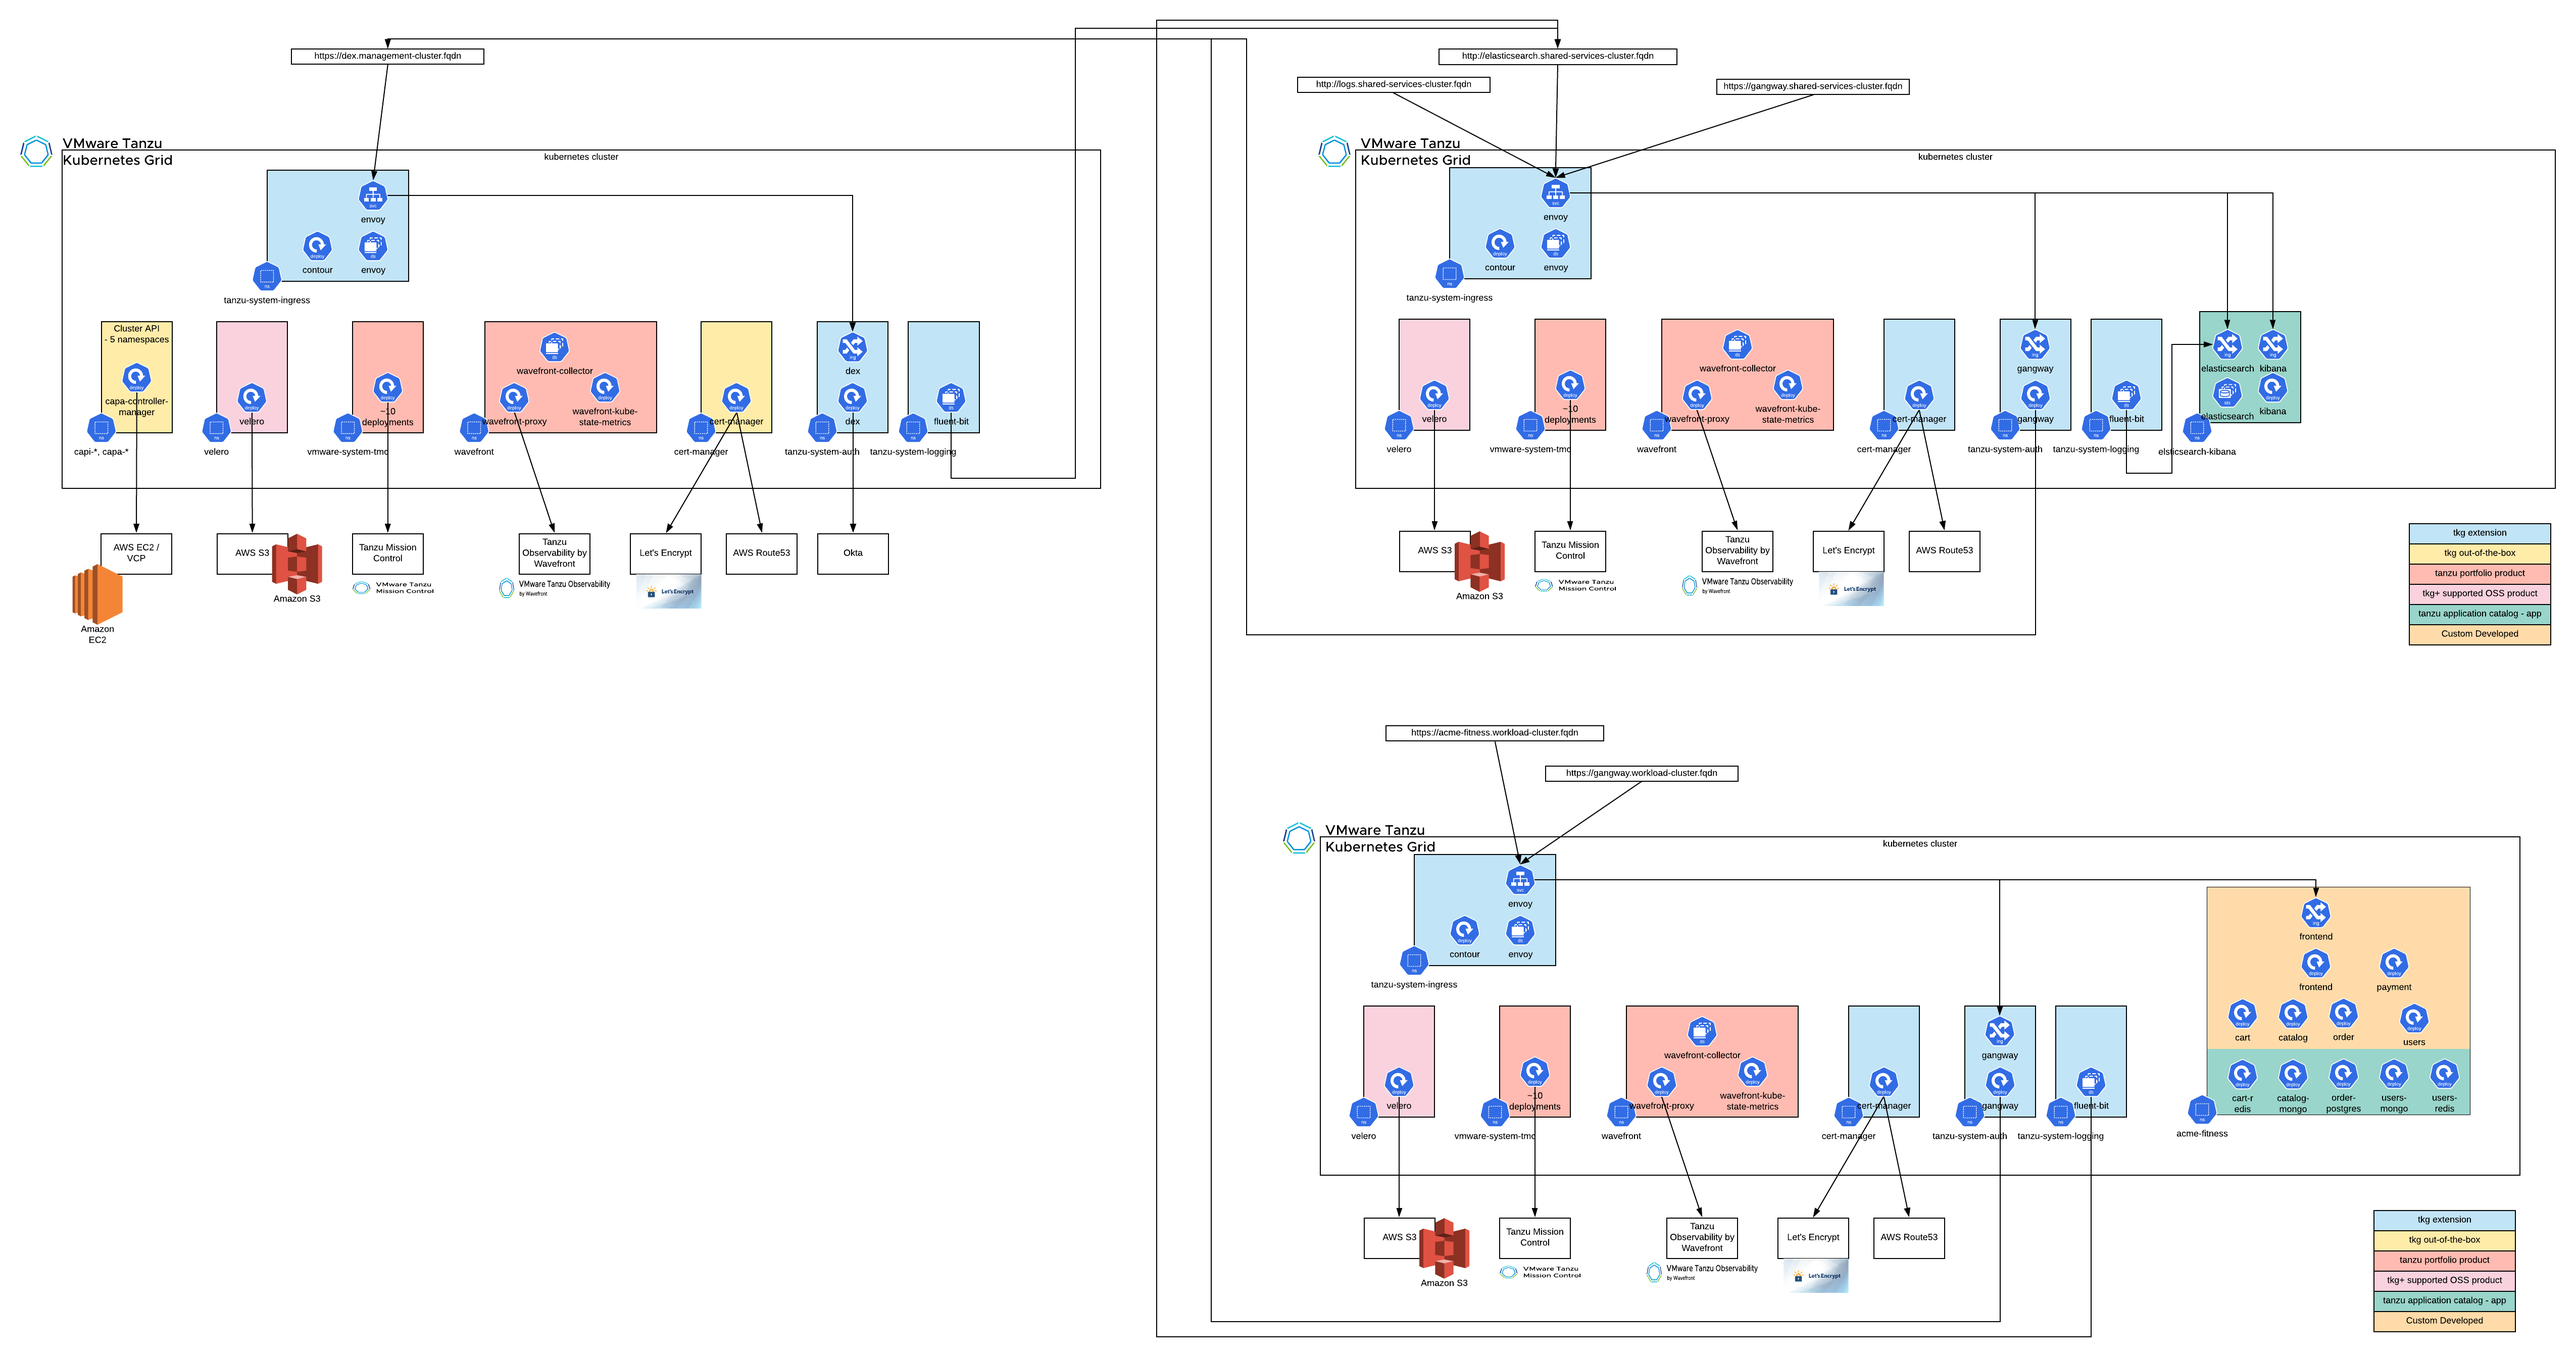
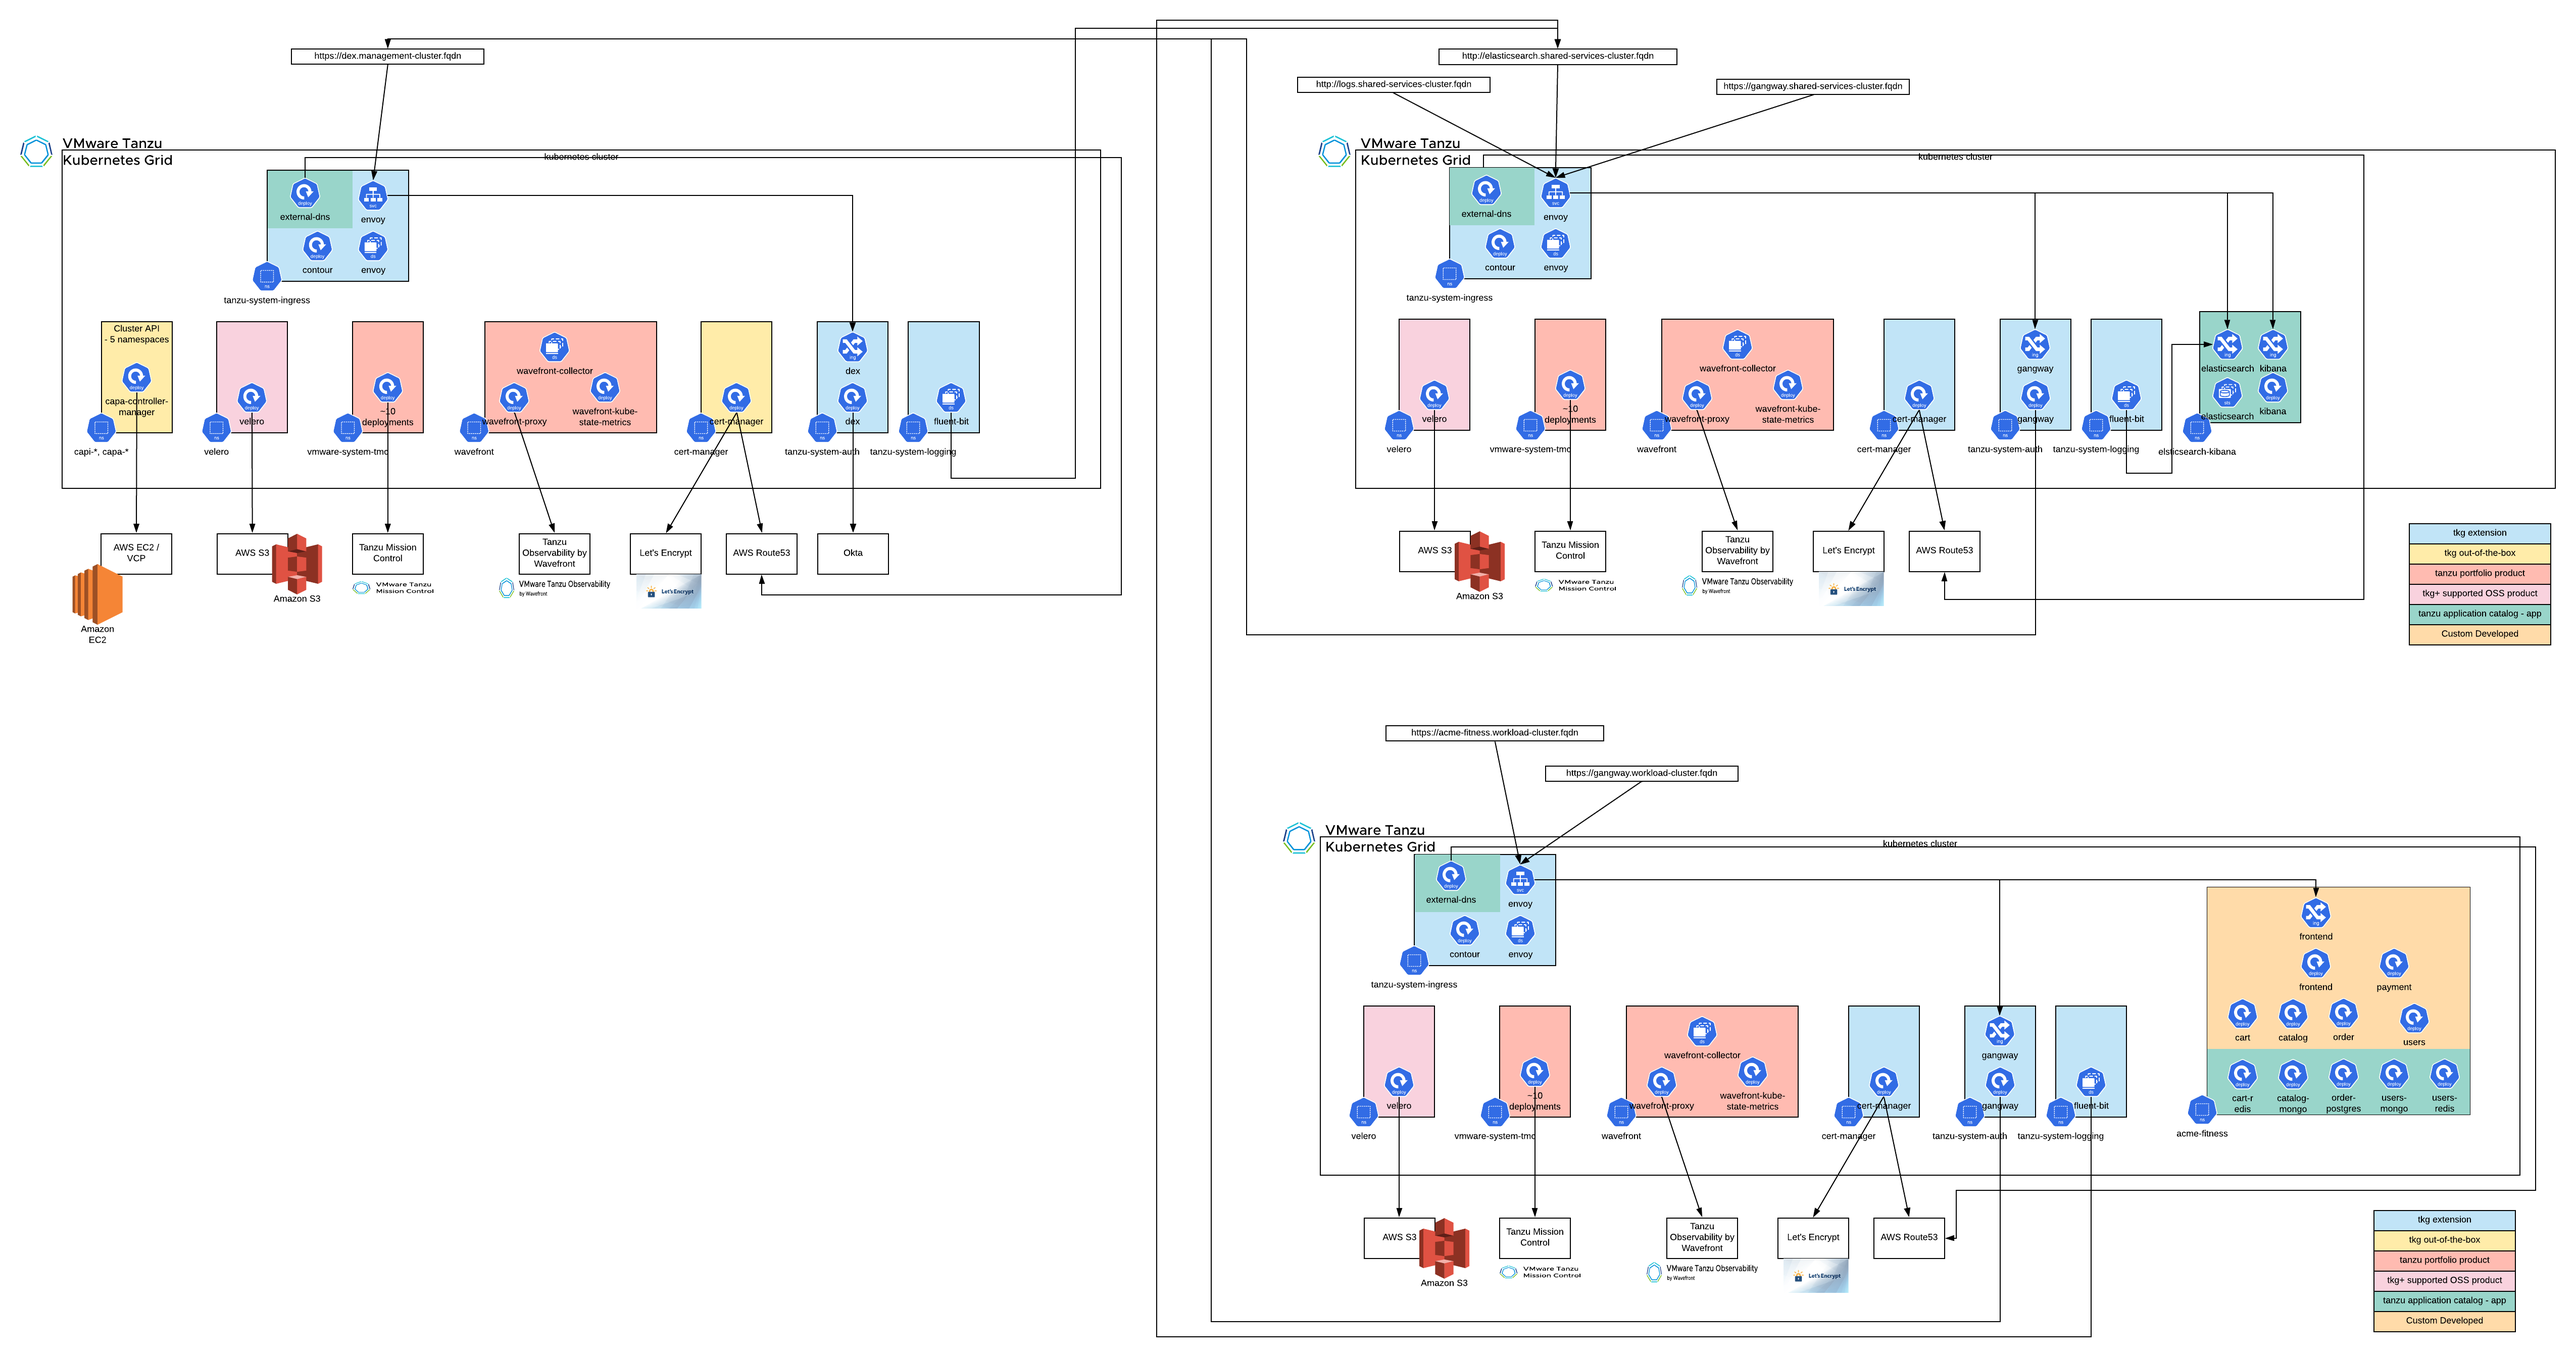
Adds external-dns, updates aws to use single vpc, introduces kapp and ytt

Changed region(s): [[0.53, 0.6178, 0.5924, 0.6796], [0.0935, 0.1236, 0.1559, 0.1853], [0.5612, 0.1236, 0.6235, 0.1853]]

diff --git a/docs/mgmt-cluster/06_contour_mgmt.md b/docs/mgmt-cluster/06_contour_mgmt.md
@@ -13,14 +13,14 @@ Run the script passing the range as parameters. Example:
 
 ## Deploy Contour
 
-Apply Contour configuration. We will use AWS one for any environment (including vSphere) since the only difference is the service type=LoadBalancer for Envoy which we need.  Use the script to update the contour configmap to enable `leaderelection` and apply yamls.
+Apply Contour configuration. We will use AWS one for any environment (including vSphere) since the only difference is the service type=LoadBalancer for Envoy which we need.  Use this script to apply yamls.
 ```bash
 ./scripts/generate-and-apply-contour-yaml.sh $(yq r $PARAMS_YAML management-cluster.name)
 ```
 
 ## Verify Contour
 
-Once it is deployed, wait until you can see all pods `Running` and the the Load Balancer up.  
+Once it is deployed, you can see all pods `Running` and the the Load Balancer up.  
 
 ```bash
 kubectl get pod,svc -n tanzu-system-ingress
@@ -34,12 +34,25 @@ The EXTERNAL IP for AWS will be set to the name of the newly configured AWS Elas
 aws elb describe-load-balancers
 ```
 
-## Setup Route 53 DNS for Contour Ingress
+## Setup Route 53 DNS for Wildcard Domain Contour Ingress
 
-Need to get the load balancer external IP for the envoy service and update AWS Route 53.  Execute the script below to do it automatically.
+We will leverage [external-dns](https://github.com/kubernetes-sigs/external-dns) for kubernetes managed DNS updates using the [helm chart from Bitnami catalog](https://bitnami.com/stack/external-dns/helm)  Then by applying an annotation containing the wildcard domain for the ingress to the `envoy` service, `external-dns` will observe the change and make the desired updates within Route53.  
+
+As we are leveraging Route53, we require access to AWS.  See [external-dns docs](https://github.com/kubernetes-sigs/external-dns/blob/master/docs/tutorials/aws.md) for minimum access required for the AWS account you are using.  If necessary, set the policy an assign to the user for the access key.  So regardless of using vSphere or AWS as your TKG IaaS, ensure the following are set in `params.yaml`:
+
+```yaml
+aws:
+  region: your-region
+  access-key-id: your-access-key-id
+  secret-access-key: your-secret-access-key
+```
+
+Execute the script below to deploy `external-dns` and to apply the annotation.
 
 ```bash
-./scripts/update-dns-records-route53.sh $(yq r $PARAMS_YAML management-cluster.ingress-fqdn)
+./scripts/generate-and-apply-external-dns-yaml.sh \
+  $(yq r $PARAMS_YAML management-cluster.name) \
+  $(yq r $PARAMS_YAML management-cluster.ingress-fqdn)
 ```
 
 ## Prepare and Apply Cluster Issuer Manifests

diff --git a/Readme.md b/Readme.md
@@ -28,6 +28,7 @@ Leverages the following external services:
 - **AWS Route 53** as DNS provider
 - **Okta** as an OIDC provider
 - **Let's Encrypt** as Certificate Authority
+- **External DNS** as Kubernetes native way to manage DNS records
 
 ## Goals and Audience
 
@@ -81,7 +82,6 @@ DEMO: With this information, let’s go explore and make use of the platform…
 
 Wow, that was awesome, what happened on the other side of the request for platform services?  How did that all happen?
 
-
 ## Required CLIs
 
 - kubectl
@@ -92,6 +92,8 @@ Wow, that was awesome, what happened on the other side of the request for platfo
 - helm 3
 - [yq version 3.3+](https://github.com/mikefarah/yq) (to install use `brew` for Mac and `apt-get` for Linux)
 - kind (helpful, but not required)
+- [ytt](https://get-ytt.io/)
+- [kapp](https://get-kapp.io/)
 
 ## Foundational Lab Setup Guides
 
@@ -99,7 +101,7 @@ There are are few options to setup the foundation lab setup of three clusters: m
 
 1. [Step by Step Guide](docs/baseline-lab-setup/step-by-step.md) - Provides instructional guidance for each step, along with validation actions.  Best really learning how each cluster is setup and the extensions and integration configured for the lab.  The guidance includes options for AWS and vSphere.
 2. [One Step Scripted Deployment for AWS](docs/baseline-lab-setup/one-step-aws.md) - This method assumes you have done any required manual steps.  There is one script that will deploy all clusters and perform integrations.  It is best to use this after you have already completed the step by step guide, as any specific configuration issue you may would have been worked out in that process previously.
-3. [Helm Install Step by Step Guide](./helm-install/README.md) - If you want to go down the path of using helm charts for all cluster extensions, Please follow below url and come back to complete lab. Helm install gives you Management Cluster, Shared Services Clusters and Workload clusters with all extensions for both AWS and vSphere. 
+3. [Helm Install Step by Step Guide](./helm-install/README.md) - If you want to go down the path of using helm charts for all cluster extensions, Please follow below url and come back to complete lab. Helm install gives you Management Cluster, Shared Services Clusters and Workload clusters with all extensions for both AWS and vSphere.
    
 ## Acme Fitness Lab
 

diff --git a/docs/shared-services-cluster/04_contour_ssc.md b/docs/shared-services-cluster/04_contour_ssc.md
@@ -21,25 +21,29 @@ Our solution leverages cert manager to generate valid ssl certs.  Use this scrip
 
 ## Deploy Contour
 
-Apply Contour configuration. We will use AWS one for any environment (including vSphere) since the only difference is the service type=LoadBalancer for Envoy which we need.  Use the script to update the contour configmap to enable `leaderelection` and apply yamls.
+Apply Contour configuration. We will use AWS one for any environment (including vSphere) since the only difference is the service type=LoadBalancer for Envoy which we need.  Use the script to  apply yamls.
 ```bash
 ./scripts/generate-and-apply-contour-yaml.sh $(yq r $PARAMS_YAML shared-services-cluster.name)
 ```
 
 ## Verify Contour
 
-Once it is deployed, wait until you can see all pods `Running` and the the Load Balancer up.  
+Once it is deployed, you can see all pods `Running` and the the Load Balancer up.  
 
 ```bash
 kubectl get pod,svc -n tanzu-system-ingress
 ```
 
-## Setup Route 53 DNS for Contour Ingress
+## Setup Route 53 DNS for Wildcard Domain Contour Ingress
 
-Need to get the load balancer external IP for the envoy service and update AWS Route 53.  Execute the script below to do it automatically.
+Just as we did for the management cluster, we will leverage [external-dns](https://github.com/kubernetes-sigs/external-dns) for kubernetes managed DNS updates.
+
+Execute the script below to deploy `external-dns` and to apply the annotation to the envoy service.
 
 ```bash
-./scripts/update-dns-records-route53.sh $(yq r $PARAMS_YAML shared-services-cluster.ingress-fqdn)
+./scripts/generate-and-apply-external-dns-yaml.sh \
+  $(yq r $PARAMS_YAML shared-services-cluster.name) \
+  $(yq r $PARAMS_YAML shared-services-cluster.ingress-fqdn)
 ```
 
 ## Prepare and Apply Cluster Issuer Manifests

diff --git a/docs/shared-services-cluster/01_install_tkg_ssc.md b/docs/shared-services-cluster/01_install_tkg_ssc.md
@@ -12,11 +12,12 @@ shared-services-cluster.worker-replicas: 2
 iaas: aws
 ```
 
-We need to copy the `oidc` script for the revelant iaas into our `.tkg` configuration directory so that TKG is aware of the customized plan.  Then we setup
-some specific environment variables that will be used in the plan: OIDC_ISSUER_URL, OIDC_USERNAME_CLAIM, OIDC_GROUPS_CLAIM, DEX_CA.  The oidc configuration
+We need to copy the `oidc` script for the relevant iaas into our `.tkg` configuration directory so that TKG is aware of the customized plan.  Then we setup some specific environment variables that will be used in the plan: OIDC_ISSUER_URL, OIDC_USERNAME_CLAIM, OIDC_GROUPS_CLAIM, DEX_CA.  The oidc configuration
 requires these.  
 
 Then we ask the management cluster to create the new workload cluster and once complete set the default storage class based upon the iaas.
+
+>Special Note for AWS Deployments: The default behavior is for each cluster (management and workload clusters) to be provisioned in their own VPC.  However, in order to conserve VPC's, we will deploy the workload clusters in the VPC and subnets as the management cluster.  This process is described in the [TKG Docs](https://docs.vmware.com/en/VMware-Tanzu-Kubernetes-Grid/1.1/vmware-tanzu-kubernetes-grid-11/GUID-tanzu-k8s-clusters-create.html#aws-vpc) and done automatically via the script below.
 
 All of the steps above can be accomplished by running the following script:
 

diff --git a/docs/workload-cluster/01_install_tkg_and_components_wlc.md b/docs/workload-cluster/01_install_tkg_and_components_wlc.md
@@ -30,7 +30,7 @@ Now you can execute the following script to perform all of those tasks:
 ./scripts/deploy-all-workload-cluster-components.sh
 ```
 
->Note: This script assumes AWS Route 53 configuration. If not using Route 53 then disable running `update-dns-records-route53.sh` script. If you decide to use Google Cloud DNS, please check [these Google Cloud DNS instructions](/docs/misc/goog_cloud_dns.md).
+>Note: This script assumes AWS Route 53 configuration. If not using Route 53 then disable running `generate-and-apply-external-dns-yaml.sh` script. If you decide to use Google Cloud DNS, please check [these Google Cloud DNS instructions](/docs/misc/goog_cloud_dns.md).
 
 >Note: Wait until your cluster has been created and components installed. It may take 12 minutes.
 >Note: Once cluster is created your kubeconfig already has the new context as the active one with the necessary credentials

diff --git a/docs/misc/goog_cloud_dns.md b/docs/misc/goog_cloud_dns.md
@@ -33,7 +33,7 @@ kubectl create secret generic certbot-gcp-service-account \
 
 > NOTE: You will execute this step on **every** Contour lab.
 
-While in the Contour lab, when you reach the step to run the `scripts/update-dns-records-route53.sh` script, don't run it and instead create the DNS record in Cloud DNS manually.
+While in the Contour lab, when you reach the step to run the `scripts/generate-and-apply-external-dns-yaml.sh` script, don't run it and instead create the DNS record in Cloud DNS manually.
 
 Create an A record with the value of the `ingress-fqdn` from the cluster you are configuring at this moment as specified in your `params.yaml` configuration file. The A record should point to the LoadBalancer IP or hostname of your Envoy service. If you are using MetalLB, this IP is the `metallb-start-ip` from the cluster you are configuring at this moment.
 

diff --git a/docs/shared-services-cluster/09_velero_ssc.md b/docs/shared-services-cluster/09_velero_ssc.md
@@ -44,6 +44,6 @@ velero backup get | grep $(yq r $PARAMS_YAML shared-services-cluster.name)
 
 ## Go to Next Step
 
-At this point the shared services cluster is complete.  
+At this point the shared services cluster is complete.  Go back and complete the management cluster setup tasks.
 
-[Create Workload Cluster](../workload-cluster/01_install_tkg_and_components_wlc.md)
+[Install FluentBit](../mgmt-cluster/09_fluentbit_mgmt.md)

diff --git a/docs/mgmt-cluster/10_velero_mgmt.md b/docs/mgmt-cluster/10_velero_mgmt.md
@@ -21,4 +21,6 @@ velero backup get | grep $(yq r $PARAMS_YAML management-cluster.name)
 
 ## Go to Next Step
 
+Now management cluster steps are complete, on to the workload cluster.
+
 [Create new Workload Cluster](../workload-cluster/01_install_tkg_and_components_wlc.md)
